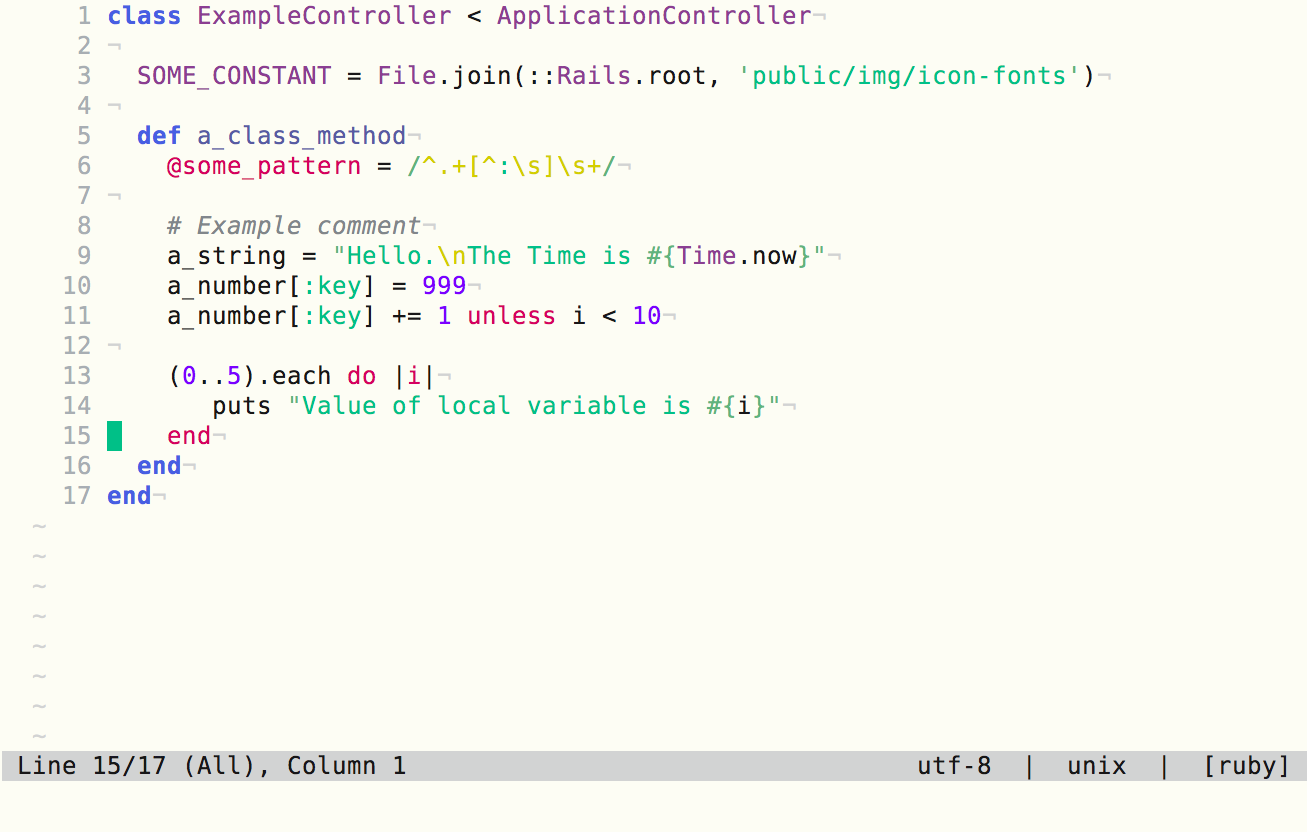
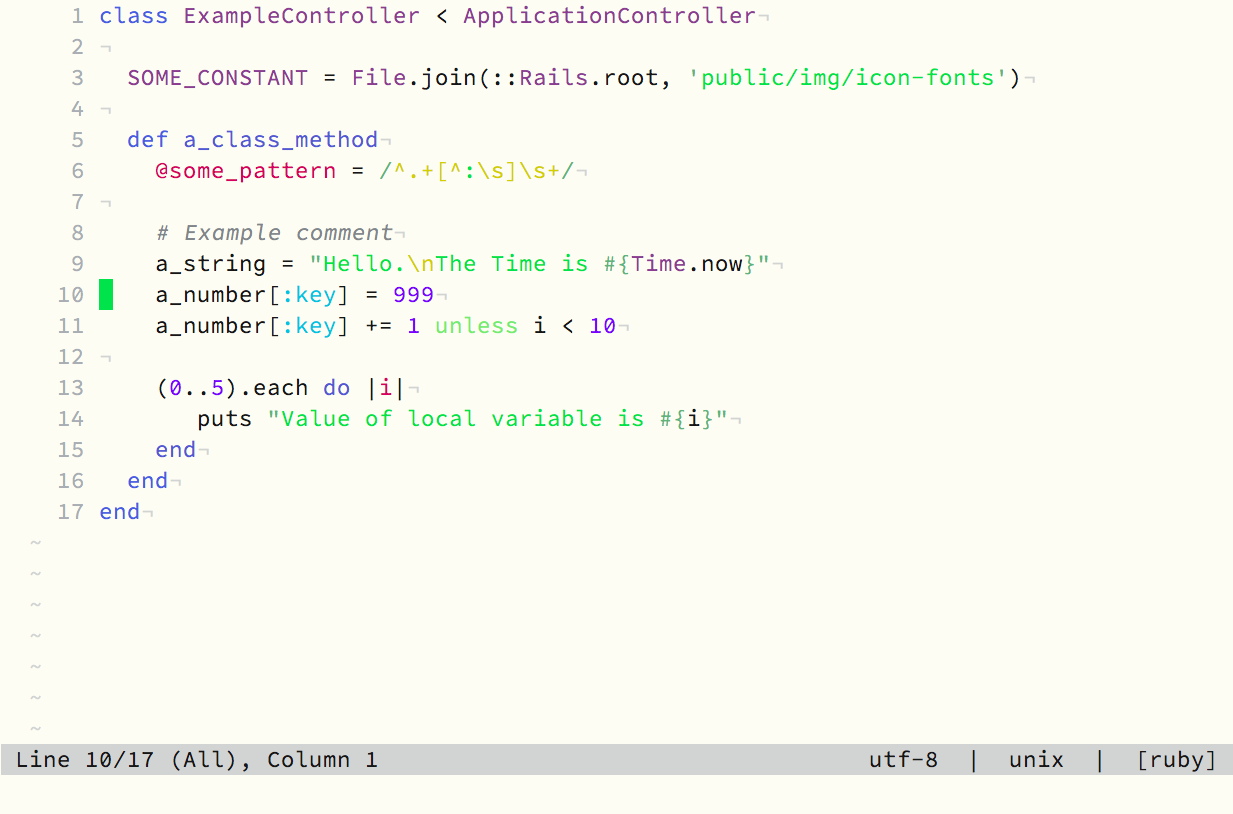
Mature colors

Changed region(s): [[0.0308, 0.0, 0.8321, 0.645], [0.0, 0.8907, 1.0, 0.9521]]

diff --git a/README.md b/README.md
@@ -2,15 +2,17 @@
 
 A dark color scheme for VIM with bright and classy colors.
 
-Please use some plugin like [CSApprox](http://www.vim.org/scripts/script.php?script_id=2390) to make this work smoothly in a 256 colors or even 88 colors terminal.
+Clean and easy on the eyes, yet its strong colors make it suitable to code even in the darkest nights (dark background) and the fiercest sun (light background).
+
+Please use some plugin like [CSApprox](http://www.vim.org/scripts/script.php?script_id=2390) to make this work smoothly in 256 colors or even 88 colors terminals.
 
 ![Screenshot with Ruby code and dark background](https://raw.github.com/cseelus/vim-colors-lanai/master/vim-colors-lanai_preview.png)
-Screenshot with Ruby code and dark background
+###### Screenshot with Ruby code and dark background
 
 ![Screenshot with Ruby code and light background](https://raw.github.com/cseelus/vim-colors-lanai/master/vim-colors-lanai_light_preview.png)
-Screenshot with Ruby code and light background
+###### Screenshot with Ruby code and light background
 
-## Adjusted highlightings for these plugins
+## Highlightings for these plugins
 
 - GitGutter
 - PlainTasks (.todo)
@@ -20,8 +22,10 @@ Screenshot with Ruby code and light background
 ## Syntax highlighting adjustments for
 
 - Apache Config
+- CoffeeScript
 - CSS
 - CtrlP
+- JavaScript
 - Haml
 - HTML
 - LaTeX
